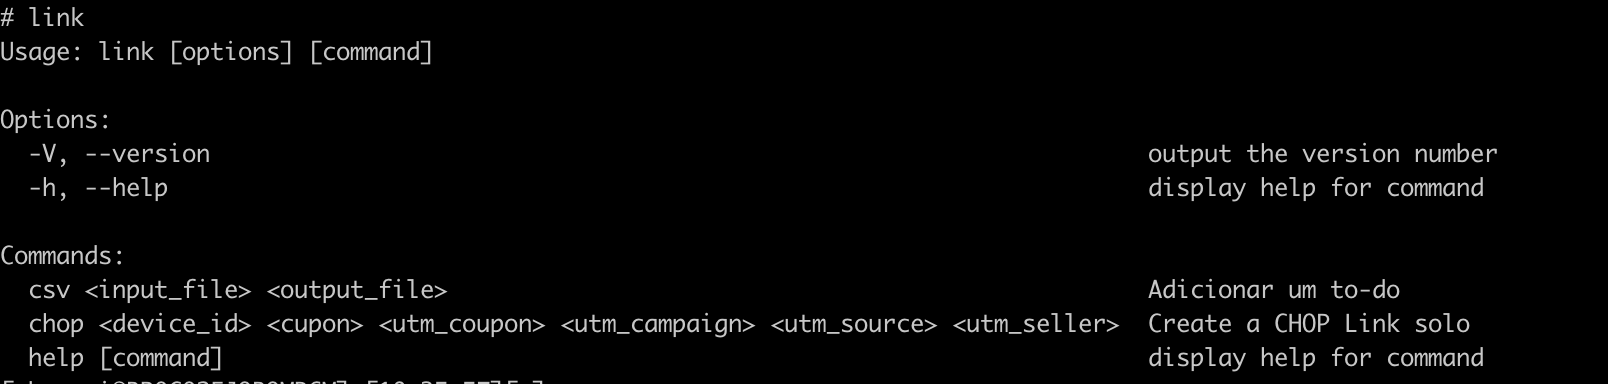
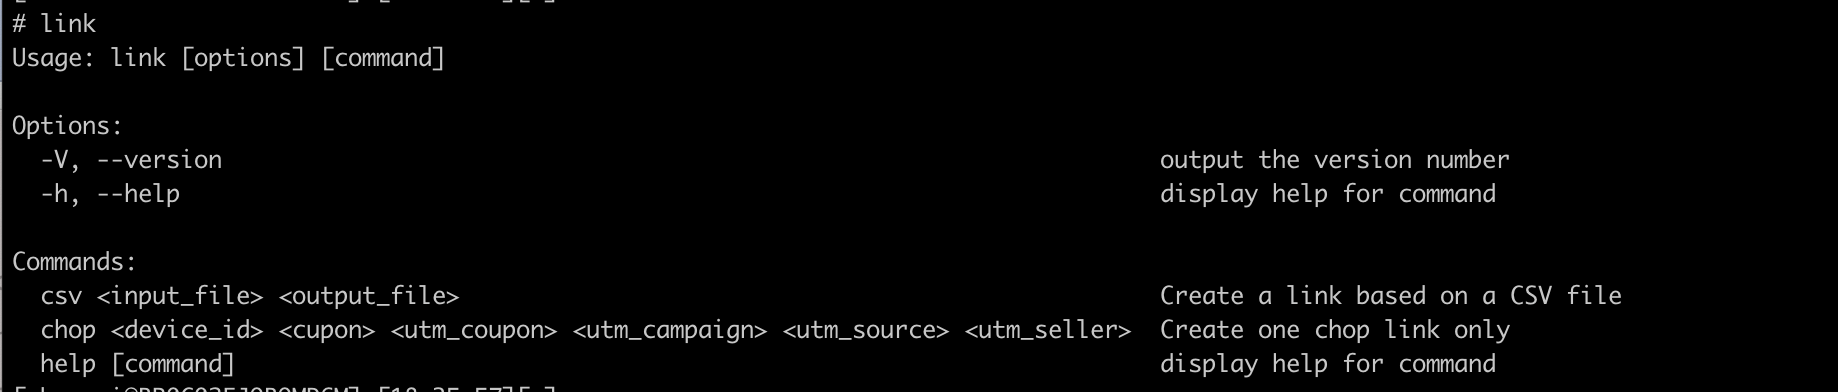
Fix documentation - English

diff --git a/link.js b/link.js
@@ -141,7 +141,7 @@ const createCSV = async function (input_file, output_file) {
 
 
 program
-    .command('csv').description('Adicionar um to-do')
+    .command('csv').description('Create a link based on a CSV file')
     .argument('<input_file>')
     .argument('<output_file>')
     .action((input_file, output_file) => {
@@ -150,7 +150,7 @@ program
     });
 program
     .version('1.0.0')
-    .command('chop').description('Create a CHOP Link solo')
+    .command('chop').description('Create one chop link only')
     .argument('<device_id>', 'utm campaign')
     .argument('<cupon>', 'utm campaign')
     .argument('<utm_coupon>', 'utm campaign')
